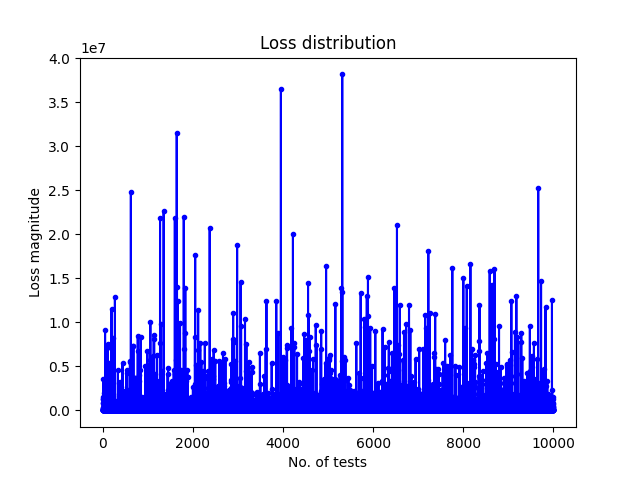
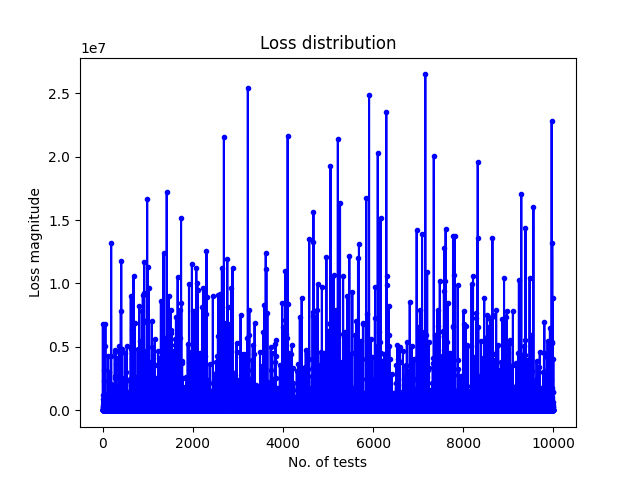
minor fixes

diff --git a/distros/cyberrisk_sim_multi.py b/distros/cyberrisk_sim_multi.py
@@ -28,7 +28,7 @@ events = {
     "event6": (0.15, 1000, 150000, "Broken backups"),
     "event7": (0.04, 1000000, 12000000, "Malware attack, knocked out internal network"),
     "event8": (0.05, 10000, 500000, "Insider's threat"),
-    "event9": (0.03, 100000, 11500000, "Terrorist attack"),
+    "event9": (0.03, 1000000, 11500000, "Terrorist attack"),
     "event10": (0.25, 5000, 50000, "Broken app release")
 }
 
